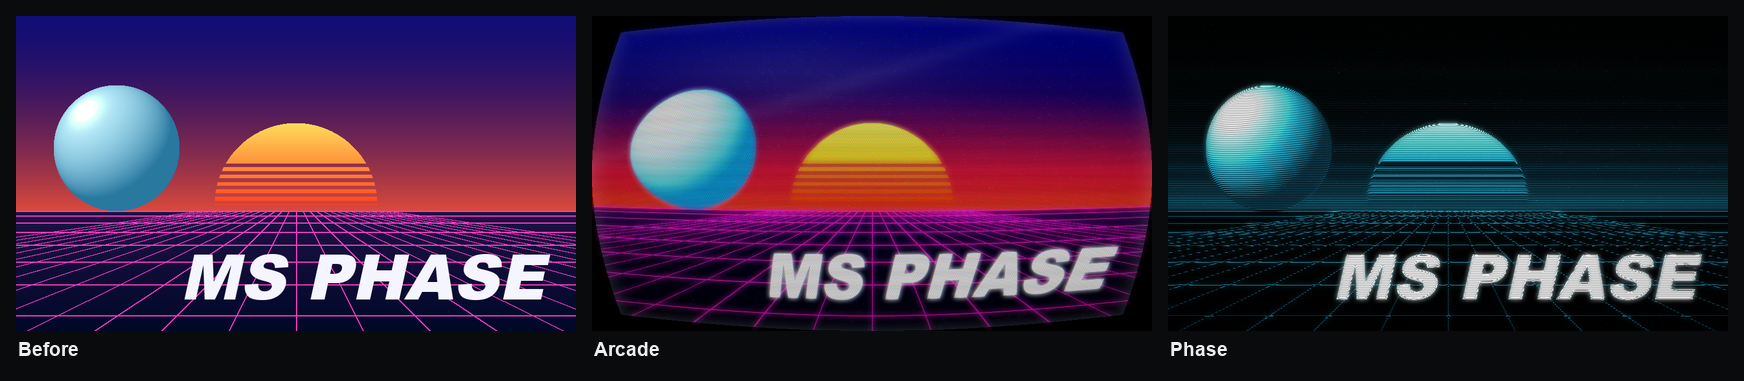
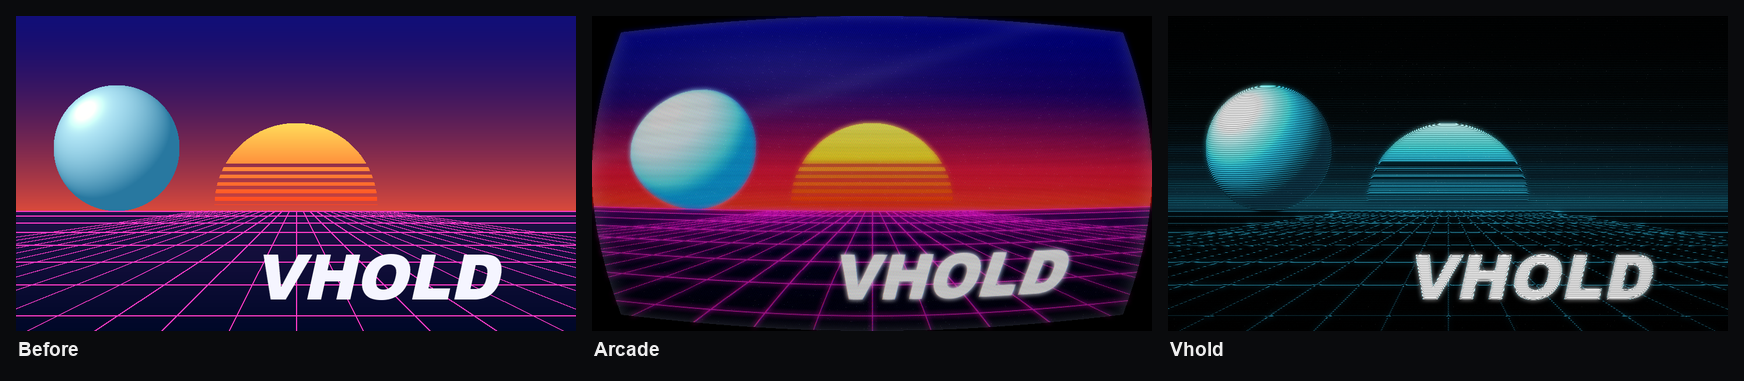
Rename to Vhold: new name, no more Morgenstern branding
- new tool name in the panel, manifest id, code, README, license and installers
- panel header, icons and README images redrawn with the new name
- shared UI files renamed from ms-ui.* to ui.*
- footer with link to Instagram @linusleinberger

diff --git a/phase/main.js b/phase/main.js
@@ -1,9 +1,9 @@
 "use strict";
-// MS Phase – Photoshop-UXP-Panel.
+// Vhold – Photoshop-UXP-Panel.
 // CRT TV look for the whole document or single layers, non-destructive:
-//  • Whole document: a group "MS Phase" on top with real layers (signal, mask, scanlines, glass, bloom).
+//  • Whole document: a group "Vhold" on top with real layers (signal, mask, scanlines, glass, bloom).
 //    The artwork below stays untouched.
-//  • Selected layers: each layer moves into a group "MS Phase · name"; the original stays visible inside,
+//  • Selected layers: each layer moves into a group "Vhold · name"; the original stays visible inside,
 //    the signal covers exactly its shape (layer mask respected), mask/scanlines/glass are clipped
 //    to the signal. Remove restores everything.
 // The settings live in the XMP of the signal layer – selecting the group loads them back into the panel.
@@ -11,18 +11,18 @@
 const { app, core, action, imaging, constants } = require("photoshop");
 const { batchPlay } = action;
 const Core = require("./core.js");
-const UI = require("./ms-ui.js");
+const UI = require("./ui.js");
 const uxpStorage = require("uxp").storage;
 const lfs = uxpStorage.localFileSystem;
 
 const $ = (id) => document.getElementById(id);
-const STORE_KEY = "msphase.state.v1";
-const TARGET_KEY = "msphase.target.v1";
-const PRESET_KEY = "msphase.presets.v1";
-const GROUP_DOC = "MS Phase";
-const LAYER_PREFIX = "MS Phase · ";
-const HIST = "MS Phase";
-const XMP_NS = "http://ms-phase/1.0/";
+const STORE_KEY = "vhold.state.v1";
+const TARGET_KEY = "vhold.target.v1";
+const PRESET_KEY = "vhold.presets.v1";
+const GROUP_DOC = "Vhold";
+const LAYER_PREFIX = "Vhold · ";
+const HIST = "Vhold";
+const XMP_NS = "http://vhold/1.0/";
 const MAX_PIXELS = 60e6;
 const TARGET = [{ _ref: "layer", _enum: "ordinal", _value: "targetEnum" }];
 // effect layer names, including the German names of earlier versions
@@ -133,7 +133,7 @@ function toRGBA(raw, comps, n) {
 }
 function needsRGB(doc) {
   if (String(doc.mode).toLowerCase().indexOf("rgb") >= 0) return false;
-  setStatus("MS Phase needs an RGB document – Image › Mode › RGB Color.", true);
+  setStatus("Vhold needs an RGB document – Image › Mode › RGB Color.", true);
   return true;
 }
 
@@ -152,7 +152,7 @@ function log(msg, data) {
 // ---------------------------------------------------------------- XMP (settings on the signal layer)
 function xmpFor(p, sourceId) {
   const json = JSON.stringify({ params: p, sourceId: sourceId || null }).replace(/&/g, "&amp;").replace(/</g, "&lt;");
-  return `<x:xmpmeta xmlns:x="adobe:ns:meta/"><rdf:RDF xmlns:rdf="http://www.w3.org/1999/02/22-rdf-syntax-ns#"><rdf:Description rdf:about="" xmlns:msphase="${XMP_NS}"><msphase:params>${json}</msphase:params></rdf:Description></rdf:RDF></x:xmpmeta>`;
+  return `<x:xmpmeta xmlns:x="adobe:ns:meta/"><rdf:RDF xmlns:rdf="http://www.w3.org/1999/02/22-rdf-syntax-ns#"><rdf:Description rdf:about="" xmlns:vhold="${XMP_NS}"><vhold:params>${json}</vhold:params></rdf:Description></rdf:RDF></x:xmpmeta>`;
 }
 async function writeXmp(layerId, p, sourceId) {
   await batchPlay([{ _obj: "set", _target: [{ _ref: "property", _property: "XMPMetadataAsUTF8" }, { _ref: "layer", _id: layerId }], to: { _obj: "layer", XMPMetadataAsUTF8: xmpFor(p, sourceId) } }], {});
@@ -161,7 +161,7 @@ async function readXmp(layerId) {
   try {
     const r = await batchPlay([{ _obj: "get", _target: [{ _property: "XMPMetadataAsUTF8" }, { _ref: "layer", _id: layerId }] }], {});
     const x = r && r[0] && r[0].XMPMetadataAsUTF8;
-    const m = x && /<msphase:params>([\s\S]*?)<\/msphase:params>/.exec(x);
+    const m = x && /<vhold:params>([\s\S]*?)<\/vhold:params>/.exec(x);
     if (!m) return null;
     const o = JSON.parse(m[1].replace(/&lt;/g, "<").replace(/&amp;/g, "&"));
     return { params: Core.sanitize(o.params), sourceId: o.sourceId || null };
@@ -289,7 +289,7 @@ function downsample(src, sw, sh, ox, oy, w, h, ps) {
   return out;
 }
 
-// ---------------------------------------------------------------- Controls (Morgenstern design, ms-ui.js)
+// ---------------------------------------------------------------- Controls (shared design, ui.js)
 function buildSliders() {
   for (const s of SLIDERS) {
     const c = UI.slider($(s.parent), Object.assign({ def: Core.DEFAULTS[s.key] }, s), {
@@ -362,7 +362,7 @@ function syncUI() {
   $("apply").textContent = target === "document" ? "Apply" : "Apply to layer";
 }
 
-const SEC_KEY = "msphase.sections.v1";
+const SEC_KEY = "vhold.sections.v1";
 const SEC_DEFAULT = { looks: true, signal: true, color: true, screen: true, osd: false, fine: false, more: false };
 function bindControls() {
   UI.sections(SEC_KEY, SEC_DEFAULT);
@@ -416,7 +416,7 @@ async function pickColor(key) {
   try {
     let res;
     await core.executeAsModal(async () => {
-      res = await batchPlay([{ _obj: "showColorPicker", _target: { _ref: "application" }, context: "MS Phase", color: { _obj: "RGBColor", red: c0.r, grain: c0.g, blue: c0.b } }], {});
+      res = await batchPlay([{ _obj: "showColorPicker", _target: { _ref: "application" }, context: "Vhold", color: { _obj: "RGBColor", red: c0.r, grain: c0.g, blue: c0.b } }], {});
     }, { commandName: "Pick colour" });
     const c = res && res[0] && (res[0].RGBFloatColor || res[0].color);
     if (c && c.red !== undefined) { params[key] = rgbToHex(c.red, c.grain !== undefined ? c.grain : c.green, c.blue); activeLook = null; syncUI(); changed(); }
@@ -828,7 +828,7 @@ async function verifyDocument(ctx, doc, p) {
 }
 async function verifyLayerTarget(ctx, doc, t, p) {
   const r = { errors: [] };
-  if (!t.group) { r.errors.push(`"${t.source.name}" belongs to no MS Phase group`); r.ok = false; return r; }
+  if (!t.group) { r.errors.push(`"${t.source.name}" belongs to no Vhold group`); r.ok = false; return r; }
   if (!t.source.visible) r.errors.push("original is hidden");
   if (t.group.name !== LAYER_PREFIX + t.source.name) r.errors.push(`group name "${t.group.name}"`);
   const kids = Array.from(t.group.layers);
@@ -896,13 +896,13 @@ async function runSelfTest() {
   setStatus("Self-test running… (1–2 minutes, please don't click)");
   try {
     await core.executeAsModal(async () => {
-      doc = await app.documents.add({ width: 900, height: 520, resolution: 72, mode: "RGBColorMode", fill: "white", name: "MS Phase self-test" });
+      doc = await app.documents.add({ width: 900, height: 520, resolution: 72, mode: "RGBColorMode", fill: "white", name: "Vhold self-test" });
       await batchPlay([{ _obj: "make", _target: [{ _ref: "layer" }], using: { _obj: "layer", name: "Artwork" } }], {});
       const al = doc.activeLayers[0]; artId = al.id;
       const id = await imaging.createImageDataFromBuffer(testArtwork(900, 520), { width: 900, height: 520, components: 4, chunky: true, colorSpace: "RGB", colorProfile: "sRGB IEC61966-2.1" });
       await imaging.putPixels({ documentID: doc.id, layerID: al.id, imageData: id, targetBounds: { left: 0, top: 0 } });
       id.dispose();
-      await batchPlay([{ _obj: "make", _target: [{ _ref: "textLayer" }], using: { _obj: "textLayer", textKey: "MS Phase",
+      await batchPlay([{ _obj: "make", _target: [{ _ref: "textLayer" }], using: { _obj: "textLayer", textKey: "Vhold",
         textClickPoint: { _obj: "paint", horizontal: { _unit: "percentUnit", _value: 52 }, vertical: { _unit: "percentUnit", _value: 88 } },
         textStyleRange: [{ _obj: "textStyleRange", from: 0, to: 5, textStyle: { _obj: "textStyle", size: { _unit: "pointsUnit", _value: 110 }, color: { _obj: "RGBColor", red: 250, grain: 250, blue: 250 } } }] } }], {});
       textId = doc.activeLayers[0].id;

diff --git a/tools/make-showcase.js b/tools/make-showcase.js
@@ -3,7 +3,7 @@
 const fs = require("fs"), path = require("path"), { execFileSync } = require("child_process");
 const Core = require(path.join(__dirname, "..", "phase", "core.js"));
 const { encodePNG } = require("./png.js");
-const OUT = path.join(__dirname, "..", "docs", "images"), TMP = fs.mkdtempSync(path.join(require("os").tmpdir(), "msphase-"));
+const OUT = path.join(__dirname, "..", "docs", "images"), TMP = fs.mkdtempSync(path.join(require("os").tmpdir(), "vhold-"));
 fs.mkdirSync(OUT, { recursive: true });
 function scene(w, h, text) {
   const f = path.join(TMP, `scene-${w}x${h}-${text.replace(/\W/g, "")}.png`);
@@ -39,11 +39,11 @@ for n,tile in enumerate(s["tiles"]):
 im.save(s["out"])
 `, js]);
 }
-const W = 960, H = 540, base = scene(W, H, "MS PHASE");
+const W = 960, H = 540, base = scene(W, H, "VHOLD");
 
-// 1) hero: the Phase look, large
+// 1) hero: the Vhold look, large
 {
-  const w = 1800, h = 760, src = scene(w, h, "MS PHASE");
+  const w = 1800, h = 760, src = scene(w, h, "VHOLD");
   const p = Object.assign(Core.presetParams("phase"), { lines: 210, bloom: 65, curvature: 18, corners: 22, vignette: 45 });
   fs.writeFileSync(path.join(OUT, "hero.png"), encodePNG(w, h, tv(src, w, h, p), 3));
 }
@@ -64,7 +64,7 @@ sheet("effects.png", "Gradient, filmed screen, interference, overlays", [
 ].map((t, n) => ({ img: save("fx-" + n, tv(base, W, H, t.p), W, H), label: t.label, sub: t.sub })), 3, 560, 315);
 // 4) phosphor masks up close (1:1 crop of a large scene)
 {
-  const bw = 2400, bh = 1350, big = scene(bw, bh, "MS PHASE");
+  const bw = 2400, bh = 1350, big = scene(bw, bh, "VHOLD");
   const cw = 360, ch = 220, ox = 1500, oy = 1000;
   const crop = (rgba) => { const o = new Uint8Array(cw * ch * 4); for (let y = 0; y < ch; y++) o.set(rgba.subarray(((oy + y) * bw + ox) * 4, ((oy + y) * bw + ox + cw) * 4), y * cw * 4); return o; };
   const part = crop(big);
@@ -80,7 +80,7 @@ sheet("effects.png", "Gradient, filmed screen, interference, overlays", [
   sheet("before-after.png", "", [
     { img: save("orig", orig, W, H), label: "Before" },
     { img: save("after-arcade", tv(base, W, H, Core.presetParams("arcade")), W, H), label: "Arcade" },
-    { img: save("after-phase", tv(base, W, H, Core.presetParams("phase")), W, H), label: "Phase" },
+    { img: save("after-phase", tv(base, W, H, Core.presetParams("phase")), W, H), label: "Vhold" },
   ], 3, 560, 315);
 }
 console.log("images written:", fs.readdirSync(OUT).join(", "));

diff --git a/phase/index.html b/phase/index.html
@@ -2,14 +2,14 @@
 <html>
 <head>
   <meta charset="utf-8">
-  <link rel="stylesheet" href="ms-ui.css">
+  <link rel="stylesheet" href="ui.css">
   <link rel="stylesheet" href="styles.css">
 </head>
 <body>
   <div class="layout">
   <div class="top">
     <div class="header">
-      <span class="brand"><span class="dot"></span><span class="brand-ms">MS</span><span class="brand-name">Phase</span></span>
+      <span class="brand"><span class="dot"></span><span class="brand-name">Vhold</span></span>
       <span id="targetName" class="target-name">–</span>
     </div>
 
@@ -145,7 +145,7 @@
           <div class="btn small ghost" id="selfTest" title="Creates a test document and checks every function">Self-test</div>
           <div class="btn small ghost" id="refreshPreview" title="Reload the preview">Refresh preview</div>
         </div>
-        <div class="hint">Morgenstern Phase creates a group with real layers: signal, mask, scanlines, glass, reflex and bloom. With "Layer only" the original sits below the effect inside the group; Remove restores it. Opacity and blend mode can also be changed directly in Photoshop.</div>
+        <div class="hint">Vhold creates a group with real layers: signal, mask, scanlines, glass, reflex and bloom. With "Layer only" the original sits below the effect inside the group; Remove restores it. Opacity and blend mode can also be changed directly in Photoshop.</div>
       </div>
     </div>
 

diff --git a/phase/ui.css b/phase/ui.css
@@ -1,4 +1,4 @@
-/* Morgenstern design – shared by all Morgenstern tools (matches ms-ui.js)
+/* Shared design – used by all tools (matches ui.js)
    Calm, dark, precise – and exactly one colour that glows: a deep electric blue.
    Base       #070a12   Surface #0d1220   Line   #1e2740
    Text       #e6ebf7   Text 2  #a7b1ca   muted     #7e89a6
@@ -26,7 +26,6 @@ b, strong { font-weight: 600; color: #e6ebf7; }
 .header { display: flex; flex-direction: row; justify-content: space-between; align-items: center; margin-bottom: 10px; }
 .brand { display: flex; flex-direction: row; align-items: center; }
 .dot { width: 8px; height: 8px; border-radius: 4px; background-color: #2f5bff; border: 1px solid #7b9cff; margin-right: 8px; box-shadow: 0 0 10px rgba(47, 91, 255, 0.9); }
-.brand-ms { font-size: 12px; font-weight: bold; letter-spacing: 1px; color: #7b9cff; margin-right: 5px; }
 .brand-name { font-size: 12px; font-weight: 600; color: #e6ebf7; }
 .target-name { color: #7e89a6; max-width: 150px; overflow: hidden; text-overflow: ellipsis; white-space: nowrap; font-size: 10px; }
 

diff --git a/phase/core.js b/phase/core.js
@@ -1,5 +1,5 @@
 "use strict";
-// MS Phase – core engine (plain JavaScript, runs in the panel and in Node).
+// Vhold – core engine (plain JavaScript, runs in the panel and in Node).
 // Turns an image into a CRT TV look. The result is several layers that Photoshop
 // later gets as real layers with blend modes:
 //   signal  Normal    the image as a TV signal (lines, colour, shift, interference, overlays)
@@ -90,7 +90,7 @@ const OSDS = [
 
 // Looks. Every look sets all values (missing = default), so they always look the same.
 const PRESETS = [
-  { id: "phase", name: "Phase", p: {} },
+  { id: "phase", name: "Vhold", p: {} },
   { id: "straight", name: "Lines", p: { mode: "straight", lines: 150, thickness: 80, wave: 0, tint: "#9fc8ff", bloom: 45 } },
   { id: "swirl", name: "Swirl", p: { mode: "swirl", wave: 60, lines: 160, tint: "#ff4fd8", bloom: 60 } },
   { id: "dotwave", name: "Dot Wave", p: { mode: "wave", dots: 70, lines: 140, thickness: 85, tint: "#3fd4ff", bloom: 65 } },

diff --git a/phase/ui.js b/phase/ui.js
@@ -1,7 +1,7 @@
-// Morgenstern controls – shared by all Morgenstern tools.
+// Shared controls – used by all tools.
 // Deliberately no Photoshop widgets (sp-slider, native checkboxes/selects, Photoshop colour picker by default):
 // own sliders, switches, segments, colour popover, collapsible sections and preset list.
-// The classes match ms-ui.css.
+// The classes match ui.css.
 
 const esc = (s) => String(s).replace(/&/g, "&amp;").replace(/</g, "&lt;").replace(/>/g, "&gt;").replace(/"/g, "&quot;");
 

diff --git a/phase/styles.css b/phase/styles.css
@@ -1,4 +1,4 @@
-/* Morgenstern Phase – additions to the shared Morgenstern design (ms-ui.css) */
+/* Vhold – additions to the shared design (ui.css) */
 .mode-hint { margin: 6px 0 2px; }
 .grad-presets { display: flex; flex-direction: row; flex-wrap: wrap; margin: 4px 0 4px; }
 .grad { display: flex; flex-direction: row; height: 16px; width: 46px; margin: 0 5px 5px 0; border-radius: 8px; border: 1px solid #263256; cursor: pointer; overflow: hidden; }

diff --git a/tools/render-test.js b/tools/render-test.js
@@ -1,4 +1,4 @@
-// Renders a raw RGBA file with MS Phase and writes the composited result as PNG.
+// Renders a raw RGBA file with Vhold and writes the composited result as PNG.
 // node tools/render-test.js <in.raw> <w> <h> <out.png> [json-params | preset-id]
 const fs = require("fs"), path = require("path");
 const Core = require(path.join(__dirname, "..", "phase", "core.js"));

diff --git a/tools/ui-preview.html b/tools/ui-preview.html
@@ -2,7 +2,7 @@
 <html>
 <head>
 <meta charset="utf-8">
-<title>Morgenstern Phase – panel preview</title>
+<title>Vhold – panel preview</title>
 <!-- Shows the panel UI in a browser (without Photoshop): Photoshop/UXP are mocked. -->
 <style>body { margin: 0; background: #222; } #frame { width: 340px; height: 900px; margin: 10px; border: 1px solid #444; }</style>
 </head>

diff --git a/tools/make-scene.py b/tools/make-scene.py
@@ -4,7 +4,7 @@ import sys, math
 from PIL import Image, ImageDraw, ImageFont, ImageFilter
 
 out, W, H = sys.argv[1], int(sys.argv[2]), int(sys.argv[3])
-text = sys.argv[4] if len(sys.argv) > 4 else "MS PHASE"
+text = sys.argv[4] if len(sys.argv) > 4 else "VHOLD"
 img = Image.new("RGB", (W, H))
 px = img.load()
 hor = int(H * 0.62)

diff --git a/README.md b/README.md
@@ -1,19 +1,19 @@
 <p align="center">
-  <img src="docs/images/hero.png" alt="Morgenstern Phase" width="100%">
+  <img src="docs/images/hero.png" alt="Vhold" width="100%">
 </p>
 
 <p align="center">
   <b>CRT TV look for Photoshop: lines that bend with the image, phosphor masks, scanlines, bloom, curvature
   and interference – for the whole document or single layers, non-destructive.</b><br>
   <sub>Photoshop 2023 (24.2) or newer · UXP panel</sub><br>
-  <sub>Free tools by <b>Morgenstern</b> · <a href="https://github.com/M0rgenst3rn/ms-distress">Morgenstern Distress</a> · <a href="https://github.com/M0rgenst3rn/ms-printer">Morgenstern Printer</a> · <a href="https://github.com/M0rgenst3rn/ms-render">Morgenstern Render</a> · <b>Morgenstern Phase</b> · <a href="https://github.com/M0rgenst3rn/ms-glow">Morgenstern Glow</a> · <a href="https://github.com/M0rgenst3rn/ms-gradients">Morgenstern Gradients</a> · <a href="https://github.com/M0rgenst3rn/ms-grids">Morgenstern Grids</a></sub>
+  <sub>More tools by <b>Linus Leinberger</b> · <a href="https://github.com/M0rgenst3rn/afterglow">Afterglow</a> · <a href="https://github.com/M0rgenst3rn/asciiwave">Asciiwave</a> · <a href="https://github.com/M0rgenst3rn/gradient-library">Gradient Library</a> · <a href="https://github.com/M0rgenst3rn/gridwork">Gridwork</a> · <a href="https://github.com/M0rgenst3rn/grime">Grime</a> · <a href="https://github.com/M0rgenst3rn/headliner">Headliner</a> · <a href="https://github.com/M0rgenst3rn/misprint">Misprint</a> · <a href="https://github.com/M0rgenst3rn/seamline">Seamline</a> · <b>Vhold</b></sub>
 </p>
 
 ---
 
-## What is Morgenstern Phase?
+## What is Vhold?
 
-Morgenstern Phase turns your artwork into a picture on a cathode-ray tube. The signal runs across the screen
+Vhold turns your artwork into a picture on a cathode-ray tube. The signal runs across the screen
 in lines that, depending on the mode, stay straight, get thicker with brightness, or wrap around shapes like
 waves. On top of that there are phosphor masks, scanlines, bloom, curvature, vignette, colour gradients, the
 look of a photographed screen, interference like noise, interlacing, wobble and glitch blocks, and overlays in
@@ -101,9 +101,9 @@ strength in the panel; the strength also later on the layer "Mask".
 
 ## Layers in the document
 
-**Whole document**: a group **"MS Phase"** is created at the top of the document:
+**Whole document**: a group **"Vhold"** is created at the top of the document:
 ```
-MS Phase          (group, opacity)
+Vhold          (group, opacity)
 ├─ Bloom       Screen
 ├─ Reflex      Screen (reflection, light rim)
 ├─ Glass       Multiply (vignette, round corners, moiré)
@@ -112,7 +112,7 @@ MS Phase          (group, opacity)
 └─ Signal      Normal
 ```
 
-**Layer only**: every layer gets its own group **"MS Phase · name"**. The original sits inside it unchanged,
+**Layer only**: every layer gets its own group **"Vhold · name"**. The original sits inside it unchanged,
 and the signal covers exactly its shape, like a screen in the shape of the object. Layer masks of cut-out
 objects are respected. Mask, scanlines, glass and reflex are clipped to the signal. Here **Opacity** mixes the
 effect with the original. **Remove** puts the original back in the same place.
@@ -126,7 +126,7 @@ effect with the original. **Remove** puts the original back in the same place.
    ```bash
    bash install-mac.sh
    ```
-3. (Re)start Photoshop → **Plugins › MS Phase**
+3. (Re)start Photoshop → **Plugins › Vhold**
 
 ### Alternative: UXP Developer Tool (macOS & Windows)
 
@@ -151,7 +151,7 @@ effect with the original. **Remove** puts the original back in the same place.
 phase/               The plugin (loaded into Photoshop as is)
   manifest.json      Plugin description
   index.html         Panel UI
-  ms-ui.js/.css      Shared Morgenstern controls and design
+  ui.js/.css      Shared controls and design
   main.js            Photoshop side (groups, layers, preview, Live, verify, self-test)
   core.js            Effect engine, plain JavaScript
 install-mac.sh       Packs the plugin (.ccx) and installs it
@@ -166,7 +166,7 @@ node tools/make-showcase.js                               # rebuild the images o
 
 ## Found a bug? Got an idea?
 
-Get in touch! The easiest way is **[Issues](https://github.com/M0rgenst3rn/ms-phase/issues)** here on GitHub:
+Get in touch! The easiest way is **[Issues](https://github.com/M0rgenst3rn/vhold/issues)** here on GitHub:
 click **New issue** and briefly describe what happened. Your Photoshop version, operating system and a
 screenshot help a lot. All you need is a free GitHub account. Suggestions and feature requests are just as
 welcome.
@@ -184,5 +184,5 @@ Adobe and Photoshop are trademarks of Adobe Inc. This project is independent and
 
 ---
 
-<p align="center"><sub>Morgenstern Phase<br>
-Made by Linus Leinberger</sub></p>
+<p align="center"><sub>Vhold<br>
+Made by Linus Leinberger · <a href="https://www.instagram.com/linusleinberger">Instagram @linusleinberger</a></sub></p>
